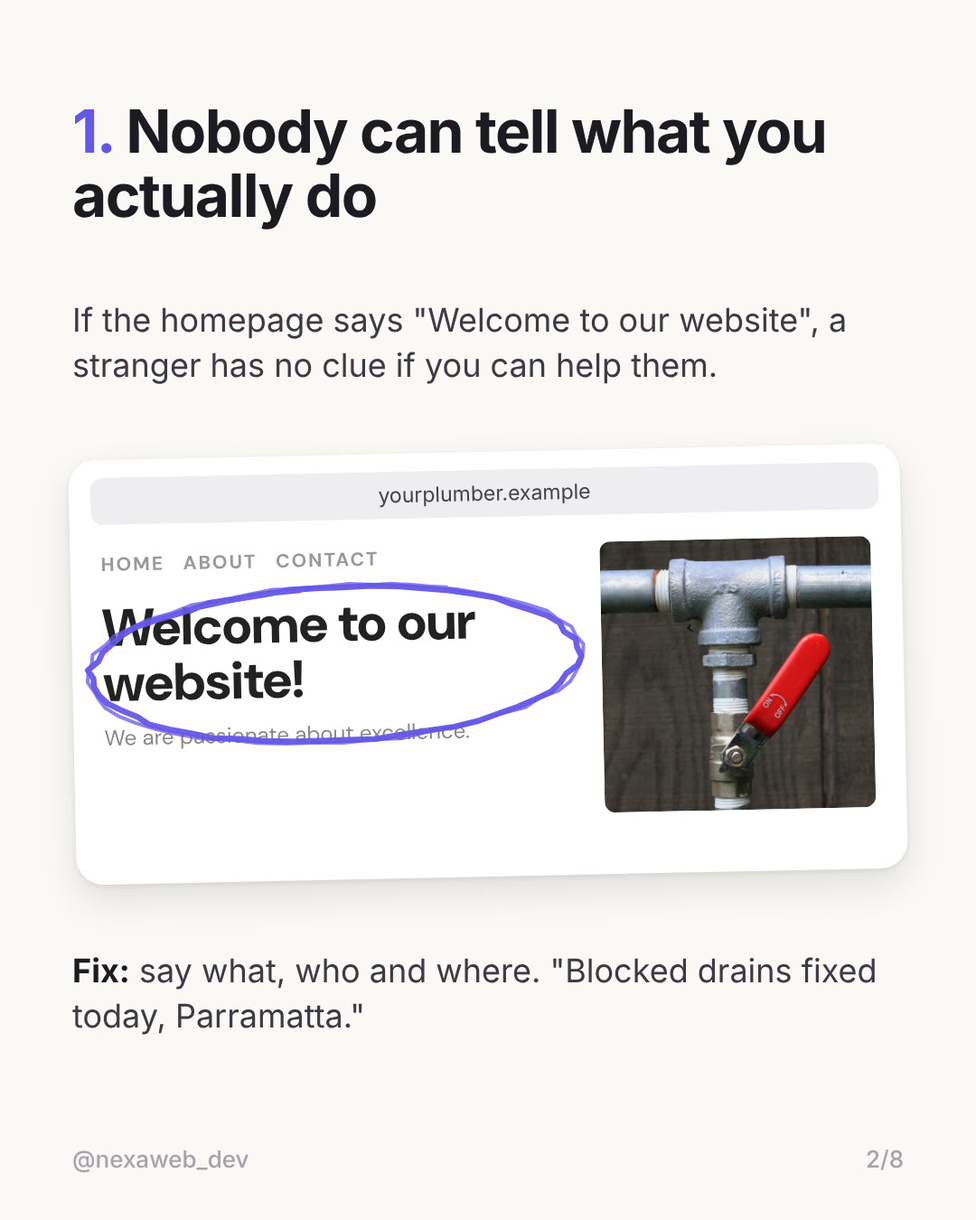
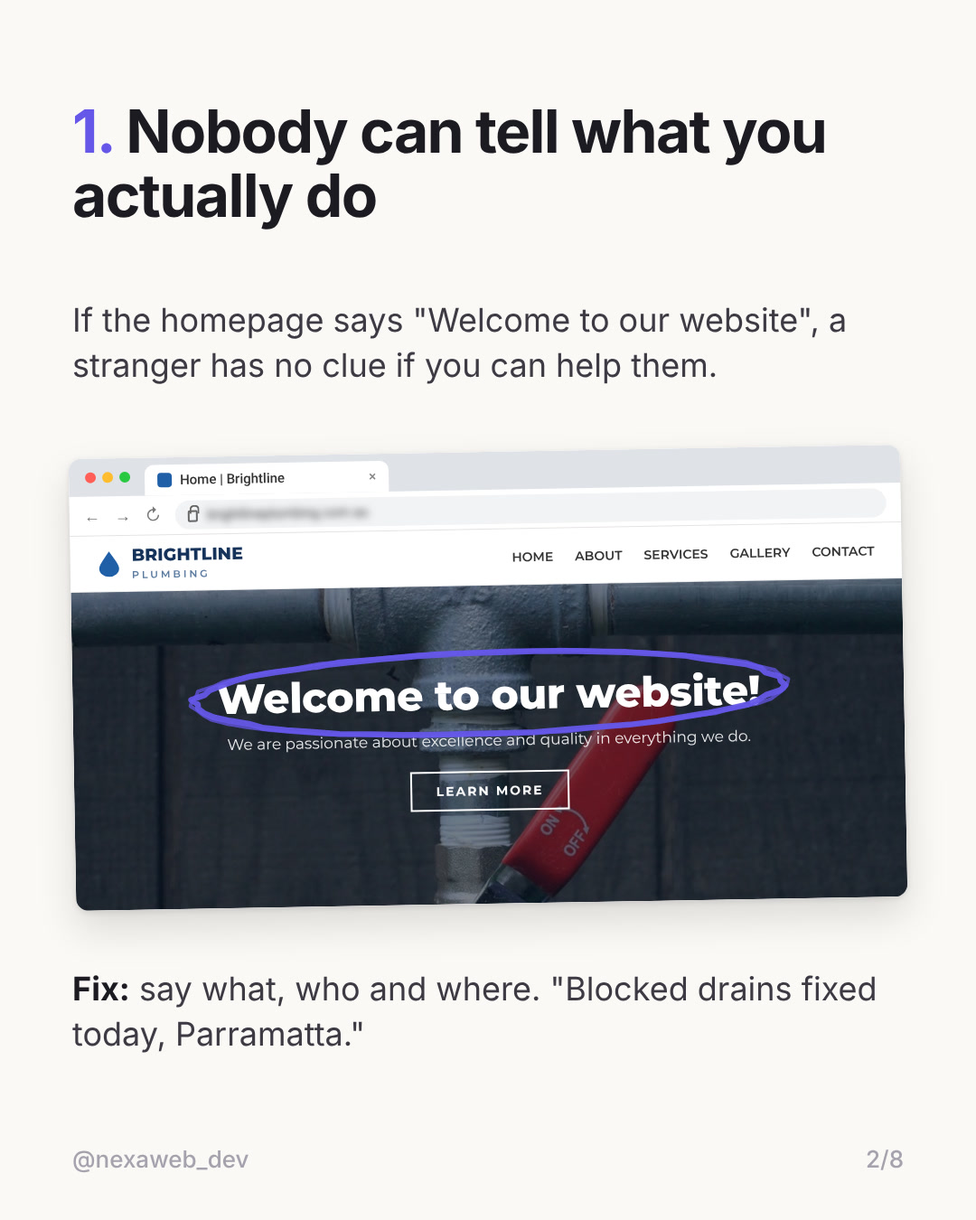
Nexa carousel v6: realistic made-up business sites
Claude-Session: https://claude.ai/code/session_01MAv6C5ZgnW2b7gxvkk4iYD

Changed region(s): [[0.0611, 0.3422, 0.9472, 0.7467], [0.0611, 0.7778, 0.9167, 0.8711]]

diff --git a/nexa/images/website-costing-customers-6-signs/src/slides.html b/nexa/images/website-costing-customers-6-signs/src/slides.html
@@ -1,24 +1,31 @@
 <!doctype html><html><head><meta charset="utf-8"><style>
-@font-face{font-family:DMS;src:url("/usr/share/fonts/truetype/google-fonts/ofl/dmsans/DMSans[opsz,wght].ttf");font-weight:100 1000}
-:root{--ind:#6557E8;--lav:#B9A6FF;--navy:#150C2B;--ink:#1d1b22;--mute:#77737f}
+:root{--ind:#6557E8;--ink:#1d1b22}
 *{box-sizing:border-box;margin:0;padding:0}
 body{font-family:'Inter',sans-serif;color:var(--ink);background:#999}
 .s{position:relative;width:1080px;height:1350px;overflow:hidden;background:#FAF9F6}
 .t{position:absolute;left:80px;right:80px;font-weight:700;font-size:66px;line-height:1.08;letter-spacing:-.025em}
 .t .n{color:var(--ind)}
-.p{position:absolute;left:80px;right:80px;font-size:36px;line-height:1.38;color:#3d3a44;font-weight:400}
-.fx{position:absolute;left:80px;right:80px;font-size:36px;line-height:1.38;font-weight:400;color:#3d3a44}
+.p{position:absolute;left:80px;right:80px;font-size:36px;line-height:1.38;color:#3d3a44}
+.fx{position:absolute;left:80px;right:80px;font-size:36px;line-height:1.38;color:#3d3a44}
 .fx b{font-weight:700;color:var(--ink)}
 .handle{position:absolute;left:80px;bottom:52px;font-size:26px;color:#a6a2ad;font-weight:500}
 .cnt{position:absolute;right:80px;bottom:52px;font-size:26px;color:#a6a2ad;font-weight:500}
-/* screenshot */
-.shot{position:absolute;background:#fff;border-radius:30px;overflow:hidden;box-shadow:0 2px 6px rgba(0,0,0,.08),0 18px 40px rgba(0,0,0,.10);font-family:DMS,sans-serif}
-.sb{height:56px;display:flex;align-items:center;justify-content:space-between;padding:0 34px;font-family:'Inter';font-weight:600;font-size:24px;color:#111}
-.sb .ic{display:flex;gap:8px;align-items:center}
-.sb .bat{width:40px;height:19px;border:2px solid #111;border-radius:5px;position:relative}.sb .bat:after{content:"";position:absolute;inset:2px 10px 2px 2px;background:#111;border-radius:2px}
-.url{margin:0 24px;height:52px;border-radius:14px;background:#EEEDF0;display:flex;align-items:center;justify-content:center;font-family:'Inter';font-size:23px;color:#444}
+.shot{position:absolute;background:#fff;border-radius:14px;overflow:hidden;box-shadow:0 2px 6px rgba(0,0,0,.10),0 20px 44px rgba(0,0,0,.13)}
+/* chrome */
+.tabs{height:42px;background:#DFE3E8;display:flex;align-items:flex-end;padding-left:84px;position:relative}
+.tabs:before{content:"";position:absolute;left:18px;top:15px;width:12px;height:12px;border-radius:50%;background:#FF5F57;box-shadow:19px 0 0 #FEBC2E,38px 0 0 #28C840}
+.tab{height:34px;background:#fff;border-radius:10px 10px 0 0;width:270px;display:flex;align-items:center;gap:9px;padding:0 14px;font:500 15px Roboto,sans-serif;color:#333;white-space:nowrap;overflow:hidden}
+.fav{width:16px;height:16px;border-radius:4px;flex:none}
+.tool{height:44px;background:#fff;display:flex;align-items:center;gap:16px;padding:0 16px;border-bottom:1px solid #e3e3e3;font:18px Roboto;color:#777}
+.omni{flex:1;height:32px;border-radius:16px;background:#F1F3F4;display:flex;align-items:center;padding:0 14px;gap:10px}
+.lock{width:11px;height:13px;border:2px solid #666;border-radius:2px;position:relative;margin-top:4px}.lock:before{content:"";position:absolute;left:0;top:-8px;width:7px;height:8px;border:2px solid #666;border-bottom:none;border-radius:5px 5px 0 0}
+.blur{filter:blur(4.5px);font:15px Roboto;color:#333}
+.vp{position:relative;overflow:hidden}
 .ph{display:block;width:100%;height:100%;object-fit:cover}
 svg.sc{position:absolute;overflow:visible;pointer-events:none}
+/* iOS */
+.sb{height:50px;display:flex;align-items:center;justify-content:space-between;padding:0 30px;font:600 21px Inter;color:#111;background:#fff}
+.bat{width:34px;height:16px;border:2px solid #111;border-radius:5px;position:relative;display:inline-block}.bat:after{content:"";position:absolute;inset:2px 8px 2px 2px;background:#111;border-radius:2px}
 </style></head><body>
 
 <!-- 1 cover -->
@@ -30,99 +37,130 @@ svg.sc{position:absolute;overflow:visible;pointer-events:none}
  <div class="handle" style="color:#cfc8e8">@nexaweb_dev</div>
 </div>
 
-<!-- 2 -->
+<!-- 2 plumber -->
 <div class="s" id="s2">
  <div class="t" style="top:110px"><span class="n">1.</span> Nobody can tell what you actually do</div>
  <div class="p" style="top:330px">If the homepage says "Welcome to our website", a stranger has no clue if you can help them.</div>
- <div class="shot" style="left:80px;top:500px;width:920px;height:470px;transform:rotate(-1.2deg)">
-  <div class="url" style="margin-top:20px">yourplumber.example</div>
-  <div style="display:flex;gap:26px;padding:30px 34px"><div style="flex:1">
-   <div style="font-size:21px;letter-spacing:2px;color:#999;font-weight:700">HOME &nbsp; ABOUT &nbsp; CONTACT</div>
-   <div style="font-weight:800;font-size:58px;line-height:1.05;margin-top:26px;color:#222">Welcome to our website!</div>
-   <div style="font-size:24px;color:#888;margin-top:14px">We are passionate about excellence.</div></div>
-   <div style="width:300px;height:300px;border-radius:12px;overflow:hidden"><img class="ph" src="img/pipes.jpg"></div></div></div>
- <svg class="sc" id="k2" style="left:90px;top:640px" width="560" height="190"></svg>
- <div class="fx" style="top:1050px"><b>Fix:</b> say what, who and where. "Blocked drains fixed today, Parramatta."</div>
+ <div class="shot dk" data-t="Home | Brightline" data-f="#1F5FA8" style="left:80px;top:500px;width:920px;height:500px;transform:rotate(-1deg)">
+  <div class="vp" style="height:414px;font-family:Montserrat">
+   <div style="height:62px;display:flex;align-items:center;padding:0 30px;gap:12px;border-bottom:1px solid #eee">
+    <svg width="26" height="30" viewBox="0 0 26 30"><path d="M13 1 C 6 11, 2 16, 2 20 a11 9 0 0 0 22 0 C 24 16, 20 11, 13 1z" fill="#1F5FA8"/></svg>
+    <div style="font-weight:800;font-size:19px;color:#14325a;line-height:1">BRIGHTLINE<br><span style="font-weight:600;font-size:11px;letter-spacing:3px;color:#5a7aa0">PLUMBING</span></div>
+    <div style="margin-left:auto;display:flex;gap:24px;font-size:14px;font-weight:600;color:#333">HOME<span>ABOUT</span><span>SERVICES</span><span>GALLERY</span><span>CONTACT</span></div></div>
+   <div style="position:relative;height:352px"><img class="ph" src="img/pipes.jpg" style="object-position:50% 40%"><div style="position:absolute;inset:0;background:rgba(10,25,45,.55)"></div>
+    <div style="position:absolute;left:0;right:0;top:92px;text-align:center;color:#fff">
+     <div style="font-weight:800;font-size:46px;letter-spacing:-.5px">Welcome to our website!</div>
+     <div style="font-size:17px;margin-top:12px;opacity:.9">We are passionate about excellence and quality in everything we do.</div>
+     <div style="display:inline-block;margin-top:24px;border:2px solid #fff;padding:11px 26px;font-size:14px;font-weight:700;letter-spacing:2px">LEARN MORE</div></div></div></div></div>
+ <svg class="sc" id="k2" style="left:205px;top:712px" width="670" height="110"></svg>
+ <div class="fx" style="top:1070px"><b>Fix:</b> say what, who and where. "Blocked drains fixed today, Parramatta."</div>
  <div class="handle">@nexaweb_dev</div><div class="cnt">2/8</div>
 </div>
 
-<!-- 3 -->
+<!-- 3 cafe mobile -->
 <div class="s" id="s3">
  <div class="t" style="top:110px"><span class="n">2.</span> Your phone number isn't tappable</div>
  <div class="p" style="top:330px;right:520px">On a phone they have to copy it, switch apps and paste it.<br><br>Plenty of people won't bother.</div>
- <div class="shot" style="left:600px;top:300px;width:400px;height:720px;border-radius:40px">
-  <div class="sb"><span>9:41</span><span class="ic">&#9679;&#9679;&#9679; <span class="bat"></span></span></div>
-  <div style="height:200px"><img class="ph" src="img/cafe.jpg" style="object-position:50% 85%"></div>
-  <div style="padding:26px 28px"><div style="font-weight:800;font-size:38px;line-height:1.1">The Corner Cafe</div>
-  <div style="font-size:22px;color:#888;margin-top:10px">Open 7 days</div>
-  <div style="font-size:26px;font-weight:700;margin-top:34px">Call us to book:</div>
-  <div style="font-size:30px;color:#444;margin-top:6px">02 5550 4321</div>
-  <div style="height:16px;width:85%;background:#eee;border-radius:5px;margin-top:40px"></div><div style="height:16px;width:65%;background:#eee;border-radius:5px;margin-top:12px"></div></div>
-  <div class="url" style="position:absolute;left:0;right:0;bottom:26px">thecornercafe.example</div></div>
- <svg class="sc" id="k3" style="left:604px;top:720px" width="300" height="80"></svg>
- <svg class="sc" id="a3" style="left:380px;top:650px" width="230" height="140"></svg>
- <div class="fx" style="top:1080px"><b>Fix:</b> make it a tap to call link, and add a call button that stays on screen.</div>
+ <div class="shot" style="left:590px;top:290px;width:410px;height:750px;border-radius:40px;font-family:Lora">
+  <div class="sb"><span>9:41</span><span style="display:flex;gap:8px;align-items:center;font-size:15px">&#9679;&#9679;&#9679;&#9679; <span class="bat"></span></span></div>
+  <div style="height:58px;display:flex;align-items:center;justify-content:space-between;padding:0 22px;background:#F6F0E6;border-bottom:1px solid #e6dccb">
+   <div style="font-family:Lora;font-style:italic;font-weight:600;font-size:25px;color:#4a3426">The Corner Café</div>
+   <div style="width:26px;height:16px;border-top:3px solid #4a3426;border-bottom:3px solid #4a3426;position:relative"><div style="position:absolute;left:0;right:0;top:3px;border-top:3px solid #4a3426"></div></div></div>
+  <div style="position:relative;height:210px"><img class="ph" src="img/cafe.jpg" style="object-position:50% 80%"><div style="position:absolute;inset:0;background:rgba(40,25,15,.35)"></div>
+   <div style="position:absolute;left:22px;bottom:20px;color:#fff;font-size:30px;font-weight:600;line-height:1.1">Good coffee.<br>Good food.</div></div>
+  <div style="padding:22px;background:#FBF8F3;height:330px;font-family:'Open Sans'">
+   <div style="font-family:Lora;font-weight:700;font-size:22px;color:#4a3426">Bookings</div>
+   <div style="font-size:16px;color:#555;margin-top:8px;line-height:1.5">We'd love to have you. To book a table please call us on:</div>
+   <div style="font-size:19px;color:#333;margin-top:6px">02 5550 4321</div>
+   <div style="font-family:Lora;font-weight:700;font-size:22px;color:#4a3426;margin-top:22px">Opening hours</div>
+   <div style="font-size:15px;color:#555;margin-top:6px;line-height:1.6">Mon to Fri &nbsp; 7am to 3pm<br>Sat and Sun &nbsp; 8am to 2pm</div></div>
+  <div style="position:absolute;left:0;right:0;bottom:0;height:86px;background:#F7F7F8;border-top:1px solid #e5e5e5;display:flex;align-items:flex-start;justify-content:center;padding-top:14px">
+   <div style="width:330px;height:40px;border-radius:12px;background:#E9E9EC;display:flex;align-items:center;justify-content:center"><span class="blur" style="font-size:16px">thecornercafe.com.au</span></div></div></div>
+ <svg class="sc" id="k3" style="left:592px;top:700px" width="170" height="62"></svg>
+ <svg class="sc" id="a3" style="left:380px;top:660px" width="230" height="140"></svg>
+ <div class="fx" style="top:1090px"><b>Fix:</b> make it a tap to call link, and add a call button that stays on screen.</div>
  <div class="handle">@nexaweb_dev</div><div class="cnt">3/8</div>
 </div>
 
-<!-- 4 -->
+<!-- 4 contact form -->
 <div class="s" id="s4">
  <div class="t" style="top:110px"><span class="n">3.</span> Your contact form wants their life story</div>
- <div class="shot" style="left:80px;top:360px;width:920px;height:560px;transform:rotate(1deg)">
-  <div class="url" style="margin-top:20px">yourbusiness.example/contact</div>
-  <div style="padding:26px 34px"><div style="font-weight:800;font-size:40px;margin-bottom:20px">Get in touch</div>
-  <div style="display:grid;grid-template-columns:1fr 1fr;gap:14px;font-family:Inter;font-size:23px;color:#999">
-  <div style="border:2px solid #e2e2e2;border-radius:8px;padding:13px 16px">Full name *</div><div style="border:2px solid #e2e2e2;border-radius:8px;padding:13px 16px">Company *</div>
-  <div style="border:2px solid #e2e2e2;border-radius:8px;padding:13px 16px">Job title *</div><div style="border:2px solid #e2e2e2;border-radius:8px;padding:13px 16px">Budget *</div>
-  <div style="border:2px solid #e2e2e2;border-radius:8px;padding:13px 16px">Street address *</div><div style="border:2px solid #e2e2e2;border-radius:8px;padding:13px 16px">Postcode *</div>
-  <div style="border:2px solid #e2e2e2;border-radius:8px;padding:13px 16px">How did you hear? *</div><div style="border:2px solid #e2e2e2;border-radius:8px;padding:13px 16px">Fax number *</div></div></div></div>
- <svg class="sc" id="k4" style="left:520px;top:727px" width="470" height="96"></svg>
- <svg class="sc" id="u4" style="left:200px;top:1020px" width="10" height="10"></svg>
- <div class="fx" style="top:1000px"><b>Fix:</b> ask for name, phone or email and a message. That's it. Get the rest on the call.</div>
+ <div class="shot dk" data-t="Contact Us | Northside Accounting" data-f="#0E7C6B" style="left:80px;top:340px;width:920px;height:620px;transform:rotate(.8deg)">
+  <div class="vp" style="height:534px;font-family:'Source Sans 3','Open Sans'">
+   <div style="height:58px;display:flex;align-items:center;padding:0 30px;gap:10px;border-bottom:1px solid #eee;font-family:'Open Sans'">
+    <div style="width:28px;height:28px;border-radius:6px;background:#0E7C6B;color:#fff;font:700 16px 'Open Sans';display:flex;align-items:center;justify-content:center">N</div>
+    <div style="font-weight:700;font-size:17px;color:#123">Northside Accounting</div>
+    <div style="margin-left:auto;display:flex;gap:22px;font-size:14px;color:#444">Home<span>Services</span><span>About</span><span style="color:#0E7C6B;font-weight:700">Contact</span></div></div>
+   <div style="background:#0E7C6B;color:#fff;padding:20px 30px;font:700 26px 'Open Sans'">Contact Us</div>
+   <div style="padding:20px 30px;display:grid;grid-template-columns:1fr 1fr;gap:12px 22px;font-family:'Open Sans';font-size:13px;color:#333">
+    <div>First name *<div class="in"></div></div><div>Last name *<div class="in"></div></div>
+    <div>Company *<div class="in"></div></div><div>Job title *<div class="in"></div></div>
+    <div>Street address *<div class="in"></div></div><div>Postcode *<div class="in"></div></div>
+    <div>Annual budget *<div class="in sel">Please select</div></div><div>How did you hear about us? *<div class="in sel">Please select</div></div>
+    <div>Phone *<div class="in"></div></div><div>Fax number *<div class="in"></div></div></div>
+   <div style="padding:0 30px"><span style="display:inline-block;background:#0E7C6B;color:#fff;font:700 14px 'Open Sans';padding:11px 24px;border-radius:4px">SUBMIT</span></div></div></div>
+ <style>.in{height:32px;border:1px solid #cfd4d9;border-radius:3px;margin-top:5px;background:#fff}.sel{font-size:12px;color:#888;padding:7px 10px}</style>
+ <svg class="sc" id="k4" style="left:520px;top:815px" width="470" height="122"></svg>
+ <div class="fx" style="top:1030px"><b>Fix:</b> ask for name, phone or email and a message. That's it. Get the rest on the call.</div>
  <div class="handle">@nexaweb_dev</div><div class="cnt">4/8</div>
 </div>
 
-<!-- 5 -->
+<!-- 5 slow landscaper -->
 <div class="s" id="s5">
  <div class="t" style="top:110px"><span class="n">4.</span> It takes forever to load</div>
- <div class="p" style="top:260px">Usually one giant photo straight off a camera.</div>
- <div class="shot" style="left:80px;top:390px;width:920px;height:560px;transform:rotate(-.8deg)">
-  <div class="url" style="margin-top:20px">yourlandscaper.example</div>
-  <div style="height:5px;background:#eee;margin:16px 24px 0;border-radius:3px"><div style="width:30%;height:100%;background:#2f7cf6;border-radius:3px"></div></div>
-  <div style="margin:20px 24px 0;height:430px;border-radius:12px;overflow:hidden;background:#f1f0f3;position:relative"><img src="img/garden.jpg" style="width:100%;height:430px;object-fit:cover;clip-path:inset(0 0 58% 0)">
-  <div style="position:absolute;left:50%;top:66%;width:56px;height:56px;margin:-28px;border:6px solid #ddd;border-top-color:#999;border-radius:50%"></div></div></div>
- <svg class="sc" id="u5" style="left:110px;top:950px" width="10" height="10"></svg>
- <div class="fx" style="top:1040px"><b>Fix:</b> shrink your images, then test your site free at pagespeed.web.dev</div>
+ <div class="p" style="top:230px">Usually one giant photo straight off a camera.</div>
+ <div class="shot dk" data-t="Greenleaf Landscapes" data-f="spin" style="left:80px;top:360px;width:920px;height:600px;transform:rotate(-.8deg)">
+  <div style="height:3px;background:#fff"><div style="width:34%;height:100%;background:#1a73e8"></div></div>
+  <div class="vp" style="height:511px;font-family:Poppins">
+   <div style="height:64px;display:flex;align-items:center;padding:0 30px;gap:10px">
+    <svg width="28" height="28" viewBox="0 0 28 28"><path d="M4 24 C 4 10, 14 4, 25 3 C 24 15, 17 24, 4 24z" fill="#3E8E41"/><path d="M4 24 L 16 12" stroke="#fff" stroke-width="2"/></svg>
+    <div style="font-weight:600;font-size:19px;color:#25502a">Greenleaf <span style="font-weight:400">Landscapes</span></div>
+    <div style="margin-left:auto;display:flex;gap:22px;font-size:14px;color:#444">Home<span>Our Work</span><span>Services</span><span>Contact</span></div></div>
+   <div style="position:relative;height:447px;background:#f1f1f1"><img src="img/garden.jpg" style="width:100%;height:447px;object-fit:cover;clip-path:inset(0 0 61% 0)">
+    <div style="position:absolute;left:50%;top:68%;width:50px;height:50px;margin:-25px;border:5px solid #ddd;border-top-color:#888;border-radius:50%"></div></div></div></div>
+ <div class="fx" style="top:1045px"><b>Fix:</b> shrink your images, then test your site free at pagespeed.web.dev</div>
  <div class="handle">@nexaweb_dev</div><div class="cnt">5/8</div>
 </div>
 
-<!-- 6 -->
+<!-- 6 no next step -->
 <div class="s" id="s6">
  <div class="t" style="top:110px"><span class="n">5.</span> No obvious next step</div>
- <div class="p" style="top:230px">Eight buttons, none of them say "book" or "get a quote".</div>
- <div class="shot" style="left:80px;top:400px;width:920px;height:540px;transform:rotate(1.1deg)">
-  <div class="url" style="margin-top:20px">thecornercafe.example</div>
-  <div style="height:220px;margin:20px 24px 0;border-radius:12px;overflow:hidden"><img class="ph" src="img/cafe2.jpg" style="object-position:50% 60%"></div>
-  <div style="padding:26px 30px;display:flex;flex-wrap:wrap;gap:14px;font-size:26px;font-weight:600;color:#888">
-  <span style="border:2px solid #e2e2e2;border-radius:8px;padding:9px 18px">Learn more</span><span style="border:2px solid #e2e2e2;border-radius:8px;padding:9px 18px">Our story</span><span style="border:2px solid #e2e2e2;border-radius:8px;padding:9px 18px">Explore</span><span style="border:2px solid #e2e2e2;border-radius:8px;padding:9px 18px">Discover</span><span style="border:2px solid #e2e2e2;border-radius:8px;padding:9px 18px">Gallery</span><span style="border:2px solid #e2e2e2;border-radius:8px;padding:9px 18px">Find out more</span><span style="border:2px solid #e2e2e2;border-radius:8px;padding:9px 18px">Blog</span><span style="border:2px solid #e2e2e2;border-radius:8px;padding:9px 18px">Resources</span></div></div>
- <svg class="sc" id="q6" style="left:900px;top:330px" width="10" height="10"></svg>
- <div class="fx" style="top:1030px"><b>Fix:</b> pick one action, like "Book a table", and put that button near the top and again further down.</div>
+ <div class="p" style="top:230px">Lots of buttons, none of them say "book a table".</div>
+ <div class="shot dk" data-t="Home | Ember &amp; Oak" data-f="#9A5B34" style="left:80px;top:370px;width:920px;height:580px;transform:rotate(1deg)">
+  <div class="vp" style="height:494px;font-family:'Gelasio'">
+   <div style="height:60px;display:flex;align-items:center;padding:0 30px;background:#1f1a17;color:#eee">
+    <div style="font-size:22px;letter-spacing:1px">Ember <i style="color:#D69A6A">&amp;</i> Oak</div>
+    <div style="margin-left:auto;display:flex;gap:20px;font:13px 'Open Sans';letter-spacing:1px;color:#ccc">HOME<span>OUR STORY</span><span>EXPLORE</span><span>GALLERY</span><span>BLOG</span><span>RESOURCES</span></div></div>
+   <div style="position:relative;height:300px"><img class="ph" src="img/cafe2.jpg" style="object-position:50% 60%"><div style="position:absolute;inset:0;background:rgba(20,14,10,.45)"></div>
+    <div style="position:absolute;left:0;right:0;top:70px;text-align:center;color:#fff"><div style="font-size:44px">A place to gather</div>
+     <div style="margin-top:22px;display:flex;justify-content:center;gap:14px;font:600 13px 'Open Sans';letter-spacing:1.5px">
+      <span style="border:1.5px solid #fff;padding:10px 18px">DISCOVER</span><span style="border:1.5px solid #fff;padding:10px 18px">LEARN MORE</span><span style="border:1.5px solid #fff;padding:10px 18px">EXPLORE</span></div></div></div>
+   <div style="padding:22px 40px;display:flex;gap:30px;font:14px 'Open Sans';color:#555;line-height:1.6">
+    <div style="flex:1"><div style="font:20px Gelasio;color:#222;margin-bottom:6px">Our story</div>Founded on a love of slow mornings and good company. <u>Find out more</u></div>
+    <div style="flex:1"><div style="font:20px Gelasio;color:#222;margin-bottom:6px">Seasonal menu</div>Fresh local produce that changes with the seasons. <u>Read more</u></div></div></div></div>
+ <svg class="sc" id="k6" style="left:290px;top:642px" width="520" height="88"></svg>
+ <div class="fx" style="top:1040px"><b>Fix:</b> pick one action, like "Book a table", and put that button near the top and again further down.</div>
  <div class="handle">@nexaweb_dev</div><div class="cnt">6/8</div>
 </div>
 
-<!-- 7 -->
+<!-- 7 nobody home -->
 <div class="s" id="s7">
  <div class="t" style="top:110px"><span class="n">6.</span> It looks like nobody's home</div>
  <div class="p" style="top:230px">If the latest post is from 2019, people wonder if you're still open.</div>
- <div class="shot" style="left:80px;top:400px;width:920px;height:520px;transform:rotate(-1deg)">
-  <div class="url" style="margin-top:20px">yourbusiness.example/news</div>
-  <div style="display:flex;gap:28px;padding:32px 34px"><div style="flex:1"><div style="font-family:Inter;font-size:23px;color:#999">Posted 14 March 2019</div>
-  <div style="font-weight:800;font-size:46px;line-height:1.08;margin-top:10px">Exciting things coming soon!</div>
-  <div style="height:16px;width:90%;background:#eee;border-radius:5px;margin-top:26px"></div><div style="height:16px;width:70%;background:#eee;border-radius:5px;margin-top:12px"></div></div>
-  <div style="width:330px;height:240px;border-radius:12px;overflow:hidden"><img class="ph" src="img/closed.jpg"></div></div>
-  <div style="position:absolute;left:34px;right:34px;bottom:30px;border-top:2px solid #eee;padding-top:18px;font-family:Inter;font-size:22px;color:#aaa">© 2019 Example Co &nbsp;·&nbsp; Opening hours: TBC</div></div>
- <svg class="sc" id="k7" style="left:96px;top:478px" width="380" height="84"></svg>
- <div class="fx" style="top:1010px"><b>Fix:</b> update the footer year and opening hours, and delete old posts you won't update.</div>
+ <div class="shot dk" data-t="News | Willow &amp; Co Homewares" data-f="#7A8F6A" style="left:80px;top:380px;width:920px;height:580px;transform:rotate(-1deg)">
+  <div class="vp" style="height:494px;font-family:'Crimson Text'">
+   <div style="text-align:center;padding:16px 0 10px;border-bottom:1px solid #eee"><div style="font-size:30px;letter-spacing:4px;color:#3b4a32">WILLOW &amp; CO</div>
+    <div style="font:12px 'Open Sans';letter-spacing:2px;color:#777;margin-top:6px">SHOP &nbsp;&nbsp; ABOUT &nbsp;&nbsp; <b style="color:#3b4a32">NEWS</b> &nbsp;&nbsp; CONTACT</div></div>
+   <div style="padding:26px 40px;display:flex;gap:30px">
+    <div style="width:330px;height:230px;flex:none"><img class="ph" src="img/closed.jpg"></div>
+    <div style="font-family:'Open Sans'"><div style="font-size:14px;color:#888">Posted 14 March 2019</div>
+     <div style="font:600 34px 'Crimson Text';color:#222;margin-top:6px;line-height:1.1">Exciting things coming soon!</div>
+     <div style="font-size:15px;color:#555;line-height:1.6;margin-top:10px">We have some big news to share with you all. Stay tuned for updates over the coming weeks!</div>
+     <div style="font-size:14px;color:#3b4a32;margin-top:12px;text-decoration:underline">Read more</div></div></div>
+   <div style="position:absolute;left:0;right:0;bottom:0;background:#3b4a32;color:#d8dfd0;padding:16px 40px;font:13px 'Open Sans';display:flex;justify-content:space-between"><span>© 2019 Willow &amp; Co. All rights reserved.</span><span>Opening hours: TBC</span></div></div></div>
+ <svg class="sc" id="k7" style="left:452px;top:558px" width="290" height="60"></svg>
+ <svg class="sc" id="k7b" style="left:770px;top:892px" width="230" height="58"></svg>
+ <div class="fx" style="top:1040px"><b>Fix:</b> update the footer year and opening hours, and delete old posts you won't update.</div>
  <div class="handle">@nexaweb_dev</div><div class="cnt">7/8</div>
 </div>
 
@@ -131,28 +169,25 @@ svg.sc{position:absolute;overflow:visible;pointer-events:none}
  <div class="t" style="top:160px;font-size:76px">So, how many did your site fail?</div>
  <div class="p" style="top:400px;font-size:44px;line-height:1.75;color:var(--ink)">
   1. Clear "what we do"<br>2. Tap to call number<br>3. Short contact form<br>4. Loads fast<br>5. One obvious button<br>6. Nothing out of date</div>
- <svg class="sc" id="u8" style="left:80px;top:1090px" width="10" height="10"></svg>
  <div class="p" style="top:1000px;font-size:40px;color:var(--ink)">Save this and check yours tonight.<br>Follow <b style="color:var(--ind)">@nexaweb_dev</b> for more like this.</div>
 </div>
 
 <script>
-// freehand marker: two slightly different passes, wobble, open ends
-let seed=7;const rnd=()=>{seed=(seed*16807)%2147483647;return seed/2147483647};
-const C='#6557E8';
-function P(pts){return pts.map((p,i)=>(i?'L':'M')+p[0].toFixed(1)+' '+p[1].toFixed(1)).join(' ')}
+document.querySelectorAll('.dk').forEach(el=>{const f=el.dataset.f;
+ const fav=f=='spin'?'<span class="fav" style="border:2.5px solid #ccc;border-top-color:#1a73e8;border-radius:50%"></span>':`<span class="fav" style="background:${f}"></span>`;
+ const url={'Home | Brightline':'brightlineplumbing.com.au','Contact Us | Northside Accounting':'northsideaccounting.com.au/contact','Greenleaf Landscapes':'greenleaflandscapes.com.au','Home | Ember &amp; Oak':'emberandoak.com.au','News | Willow &amp; Co Homewares':'willowandco.com.au/news'}[el.dataset.t.replace('&','&amp;')]||'yourwebsite.com.au';
+ el.insertAdjacentHTML('afterbegin',`<div class="tabs"><div class="tab">${fav}<span>${el.dataset.t}</span><span style="margin-left:auto;color:#888">×</span></div></div><div class="tool"><span>&#8592;</span><span>&#8594;</span><span>&#8635;</span><div class="omni"><span class="lock"></span><span class="blur">${url}</span></div></div>`)});
+let seed=7;const rnd=()=>{seed=(seed*16807)%2147483647;return seed/2147483647};const C='#6557E8';
+function P(p){return p.map((q,i)=>(i?'L':'M')+q[0].toFixed(1)+' '+q[1].toFixed(1)).join(' ')}
 function circle(id,w,h,rot=0){const el=document.getElementById(id);let out='';
  for(let pass=0;pass<2;pass++){const pts=[];const st=-2.2+pass*.35,n=60,end=st+Math.PI*2*(1.08+pass*.04);
   for(let i=0;i<=n;i++){const a=st+(end-st)*i/n;const k=1+(rnd()-.5)*.035+pass*.025;pts.push([w/2+Math.cos(a)*(w/2-10)*k,h/2+Math.sin(a)*(h/2-10)*k])}
   out+=`<path d="${P(pts)}" stroke="${C}" stroke-width="${pass?4:6.5}" fill="none" stroke-linecap="round" stroke-linejoin="round" opacity="${pass?.75:.95}"/>`}
  el.innerHTML=`<g transform="rotate(${rot} ${w/2} ${h/2})">${out}</g>`}
-function underline(id,x,y,len){const el=document.getElementById(id);const pts=[];for(let i=0;i<=24;i++){pts.push([x+len*i/24,y+Math.sin(i/3)*2+(rnd()-.5)*3-(i/24)*8])}
- el.innerHTML=`<path d="${P(pts)}" stroke="${C}" stroke-width="7" fill="none" stroke-linecap="round" opacity=".9"/>`}
-function arrow(id,x1,y1,x2,y2,bend){const el=document.getElementById(id);const mx=(x1+x2)/2,my=(y1+y2)/2-bend;
- const pts=[];for(let i=0;i<=30;i++){const t=i/30;pts.push([(1-t)*(1-t)*x1+2*(1-t)*t*mx+t*t*x2+(rnd()-.5)*2,(1-t)*(1-t)*y1+2*(1-t)*t*my+t*t*y2+(rnd()-.5)*2])}
+function arrow(id,x1,y1,x2,y2,bend){const el=document.getElementById(id);const mx=(x1+x2)/2,my=(y1+y2)/2-bend;const pts=[];
+ for(let i=0;i<=30;i++){const t=i/30;pts.push([(1-t)*(1-t)*x1+2*(1-t)*t*mx+t*t*x2+(rnd()-.5)*2,(1-t)*(1-t)*y1+2*(1-t)*t*my+t*t*y2+(rnd()-.5)*2])}
  const a=Math.atan2(y2-pts[27][1],x2-pts[27][0]);const h1=[x2-26*Math.cos(a-.5),y2-26*Math.sin(a-.5)],h2=[x2-26*Math.cos(a+.5),y2-26*Math.sin(a+.5)];
  el.innerHTML=`<path d="${P(pts)} M${h1[0]} ${h1[1]} L${x2} ${y2} L${h2[0]} ${h2[1]}" stroke="${C}" stroke-width="6.5" fill="none" stroke-linecap="round" stroke-linejoin="round"/>`}
-function qmark(id){document.getElementById(id).innerHTML=`<text x="0" y="0" font-family="Caveat" font-size="1" fill="none"></text>`}
-circle('k2',560,190,-3);circle('k3',300,80,2);arrow('a3',20,120,175,60,45);circle('k4',470,96,-1.5);
-circle('k7',380,84,-2);
+circle('k2',670,110,-2);circle('k3',170,62,2);arrow('a3',20,120,200,62,45);circle("k4",470,122,-1);circle('k6',520,88,1);circle('k7',290,60,-2);circle('k7b',230,58,-1);
 </script>
 </body></html>

diff --git a/nexa/NOTES.md b/nexa/NOTES.md
@@ -15,3 +15,4 @@
 - 2026-11-20 (Jayden): still "looks AI" with template elements. Current direction (v5, src/slides.html): fewer elements,
   casual short copy, realistic screenshots, freehand marker scribbles, no label pills / FIX boxes / logo badges / handwriting font,
   slightly different layout per slide. He has no own screenshots or photos to supply.
+- 2026-11-20 (Jayden): mockups must look like actual websites (real browser chrome, logos, nav, hero photos, per-business fonts/colours, blurred URL bar). Business names are made up.
